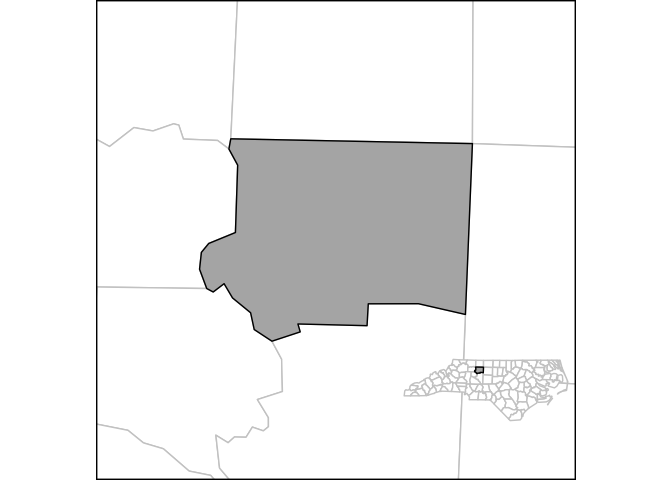
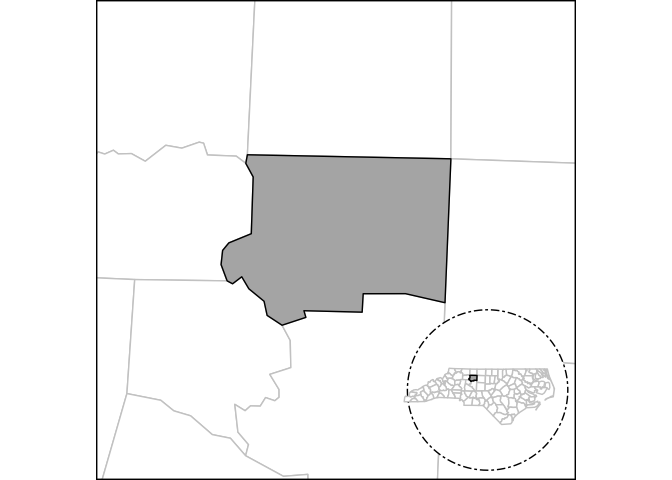
docs: update function docs + examples + README

diff --git a/README.md b/README.md
@@ -166,7 +166,7 @@ nc_map +
 ``` r
 nc_map +
   layer_labelled(
-    data = nc[c(10,20,30,40),],
+    data = nc[c(10, 20, 30, 40), ],
     geom = "sf_label",
     label_col = "NAME"
   )
@@ -177,11 +177,11 @@ nc_map +
 ``` r
 nc_map +
   layer_numbers(
-    data = nc[c(10,20,30,40), ],
+    data = nc[c(10, 20, 30, 40), ],
     aes(fill = NAME),
     num_style = "Alph",
     size = 3.5
-    ) +
+  ) +
   guides(fill = "none")
 ```
 
@@ -206,17 +206,23 @@ circle_nc
 
 ``` r
 nc_context <-
+  layer_frame(
+    data = nc,
+    linetype = "twodash",
+    neatline = FALSE,
+    basemap = TRUE
+  ) +
   layer_location_context(
-      location = nc[25, ],
-      context = nc,
-      context_params = list(fill = "white", color = "gray80", alpha = 1),
-      basemap = TRUE
-    )
+    location = nc[25, ],
+    context = nc,
+    context_params = list(fill = "white", color = "gray80", alpha = 1),
+    neatline = FALSE
+  )
 
 nc_context +
   layer_neatline(
     data = nc[25, ],
-    dist = 10,
+    dist = 15,
     unit = "mi",
     asp = 1
   ) +
